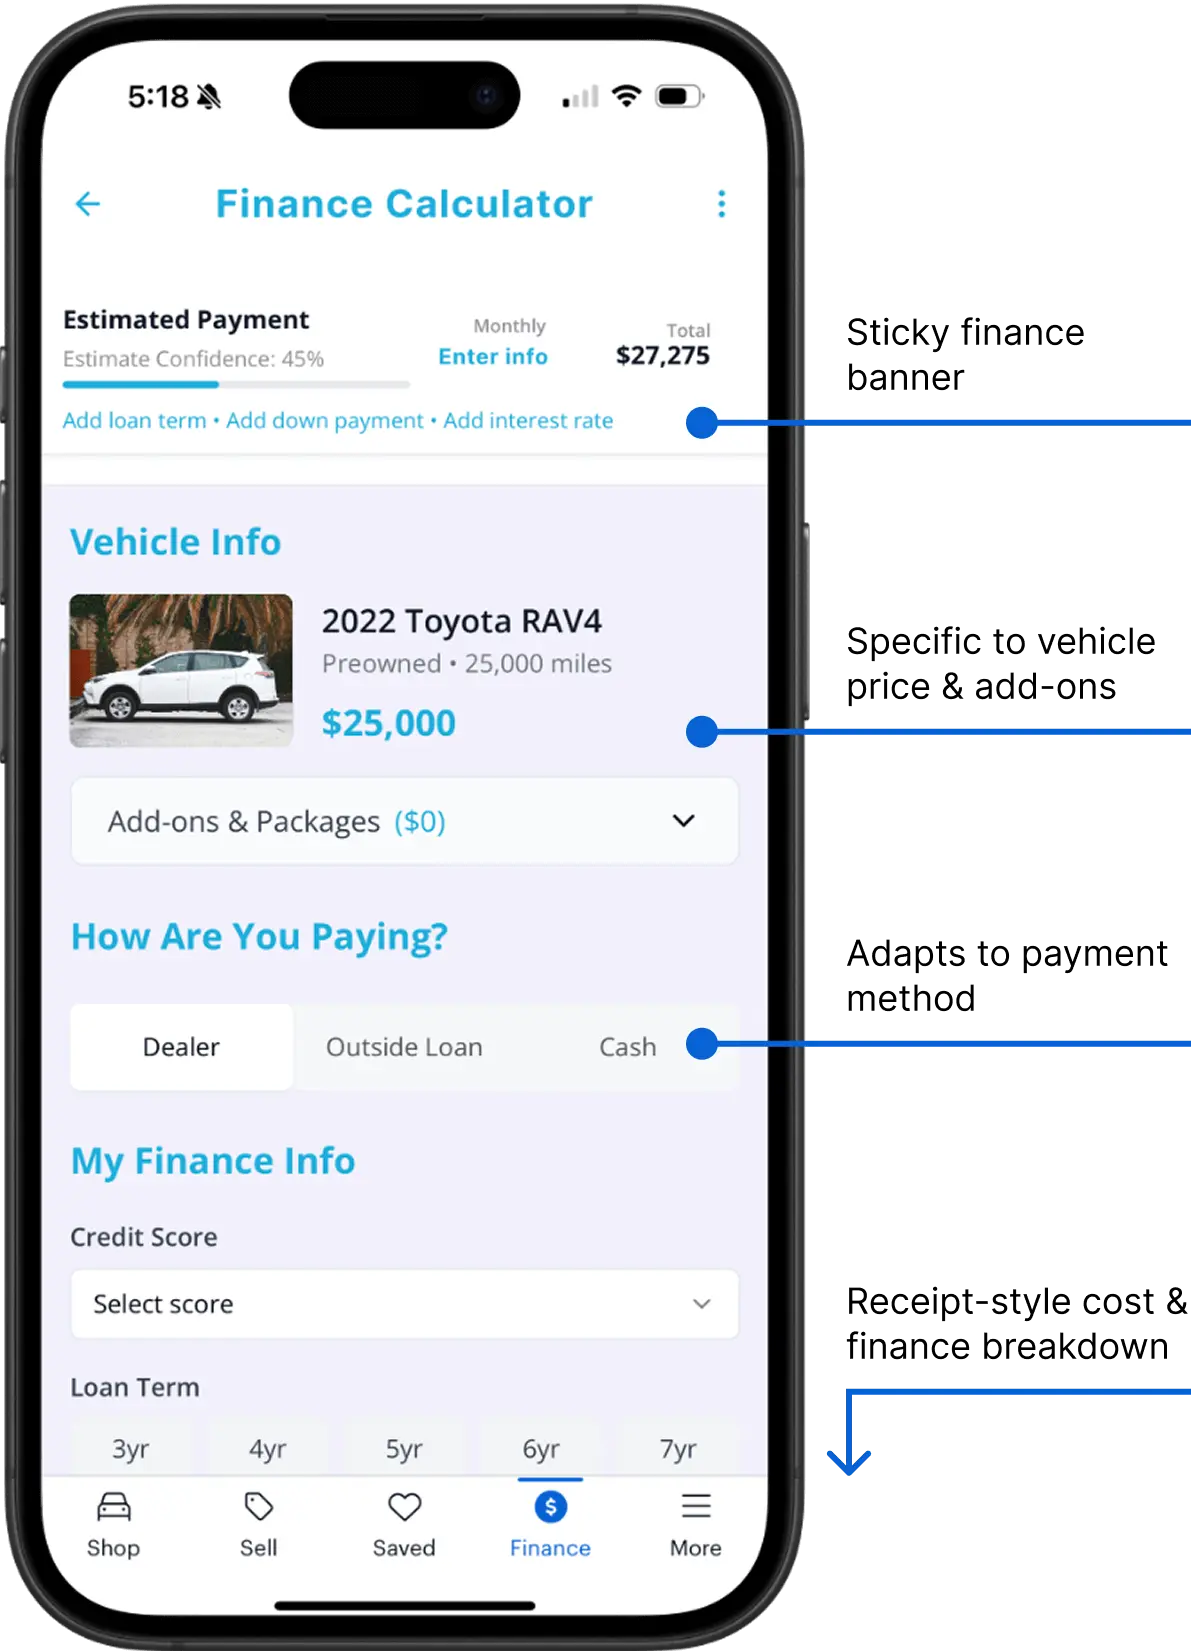
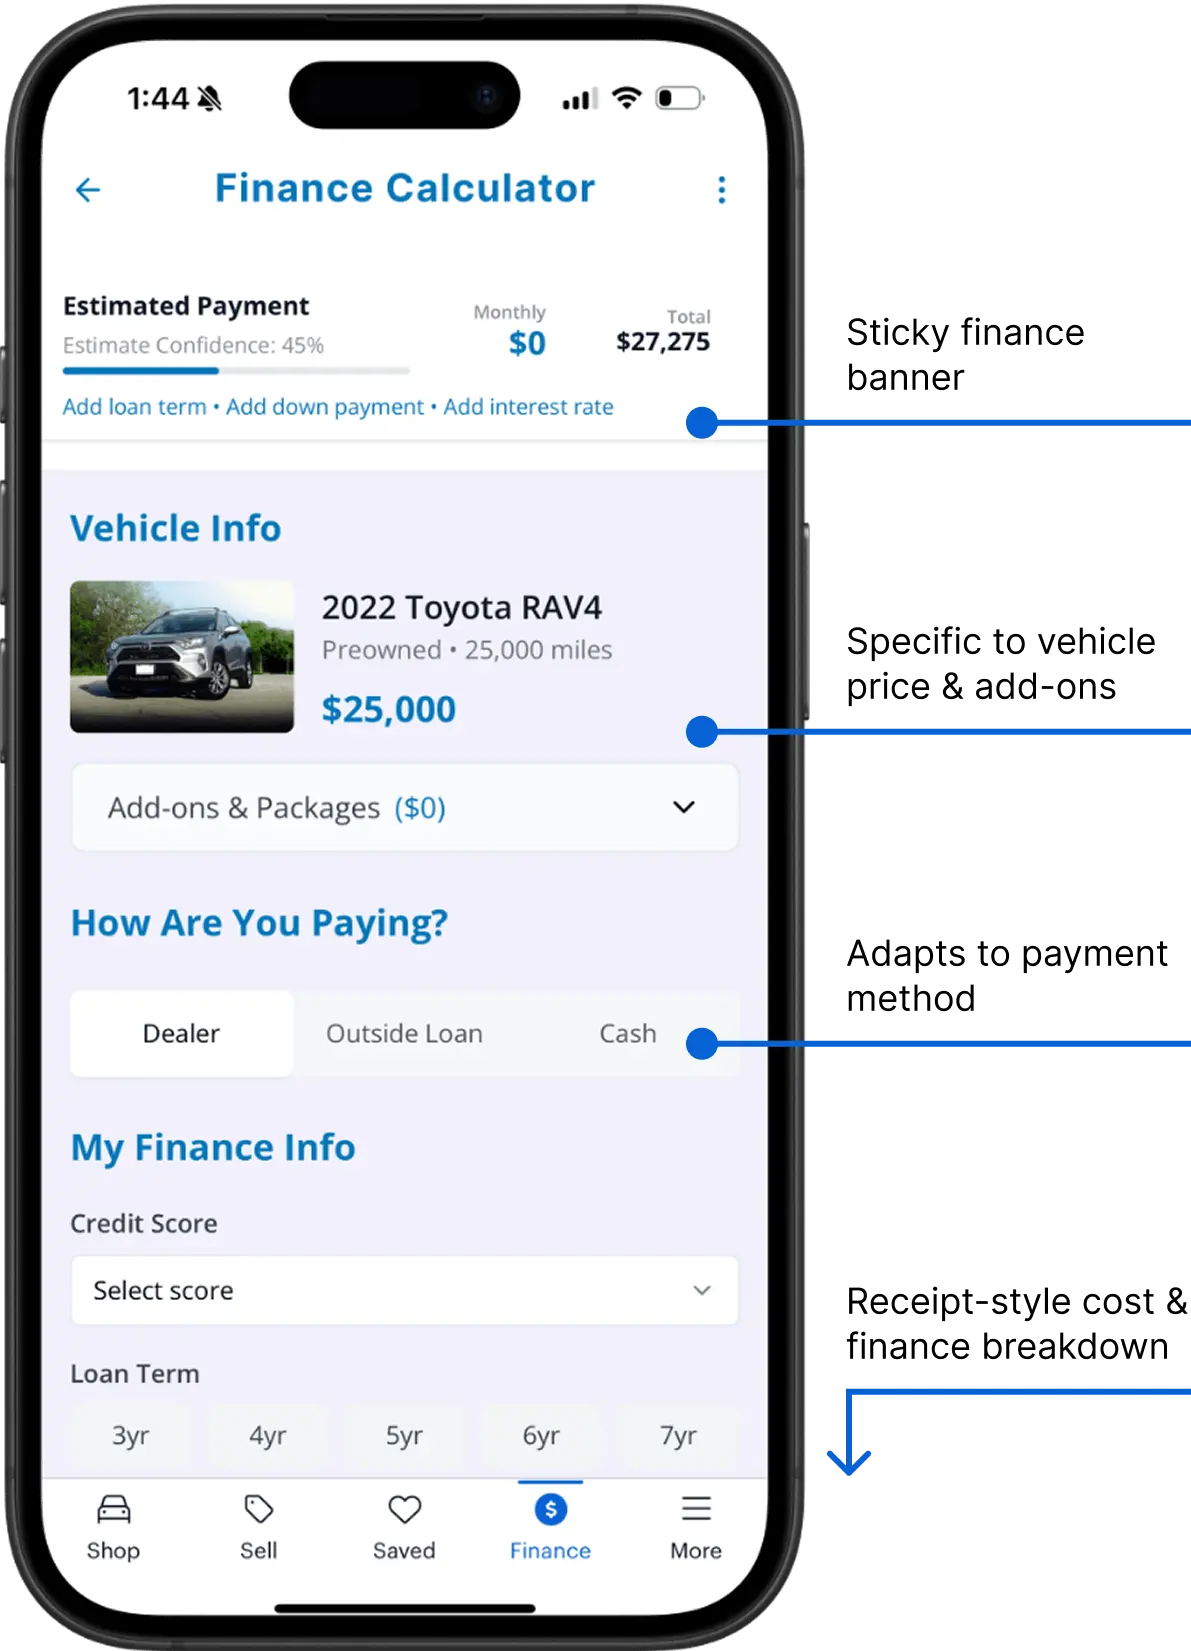
changed cg blue

diff --git a/assets/cargurus.css b/assets/cargurus.css
@@ -4,13 +4,13 @@
 
 /* CarGurus specific variables */
 :root {
-  --cargurus-primary: #00A1DD;
-  --cargurus-secondary: #00719B;
+  --cargurus-primary: #55A0CE;
+  --cargurus-secondary: #046096;
   --cargurus-text-dark: #000000;
   --cargurus-text-light: #727272;
-  --cargurus-bg-light: #63C4E8;
+  --cargurus-bg-light: #55A0CE;
   --cargurus-grey-light: rgba(0, 0, 0, 0.05);
-  --cargurus-border: #00A1DD;
+  --cargurus-border: #55A0CE;
 }
 
 /* Override JumboCode green elements with CarGurus blue */
@@ -179,32 +179,32 @@
 }
 
 .visit-site-link {
-  color: #0762D4;
+  color: #107BBC;
 }
 
 .visit-site-link:hover {
-  color: var(--cargurus-primary);
+  color: #509DCB;
 }
 
 .process-link-text {
-  color: #0762D4;
+  color: #107BBC;
 }
 
 .process-link:hover .process-link-text {
-  color: var(--cargurus-primary);
+  color: #509DCB;
 }
 
 .impact-number {
-  color: #0762D4;
+  color: #107BBC;
 }
 
 .goal-card {
-  border-color: #0762D4;
+  border-color: #107BBC;
 }
 
 .goal-number {
-  border-color: #0762D4;
-  color: #0762D4;
+  border-color: #107BBC;
+  color: #107BBC;
 }
 
 .description-card.positive {
@@ -467,7 +467,7 @@
 .research-quote {
   background: #EBEBEB;
   border-radius: 16px;
-  border: 1px solid #0762D4;
+  border: 1px solid #107BBC;
   /* Responsive padding with clamp */
   padding: clamp(16px, 4vw, 32px) clamp(24px, 6vw, 48px);
   /* left-aligned within the container */
@@ -476,7 +476,7 @@
 }
 
 .research-quote .quote-text {
-  color: #0762D4;
+  color: #107BBC;
   font-weight: 400;
   font-size: var(--type-size-heading);
   line-height: 1.5;
@@ -583,7 +583,7 @@
 }
 
 /* Accent color span for selected titles */
-.comp-accent { color: #0762D4; }
+.comp-accent { color: #107BBC; }
 
 @media (max-width: 948px) {
   .comp-row {

diff --git a/assets/style.css b/assets/style.css
@@ -530,7 +530,7 @@ img.work-logo {
 }
 
 .work-title-h3.cargurus {
-  color: #00A1DD; /* CarGurus blue */
+  color: #55A0CE; /* CarGurus blue */
 }
 
 .work-title-h3.realityai {
@@ -608,19 +608,19 @@ img.work-logo {
 }
 
 .work-preview.jumbocode:hover {
-  background: #46CDA7;
+  background: #2CAE8B;
   box-shadow: var(--shadow-medium);
 }
 
 .work-preview.cargurus {
-  border-color: #00A1DD;
-  background: #63C4E8;
+  border-color: #55A0CE;
+  background: #55A0CE;
   padding: 5.333% 5.333% 0 5.333%;
   box-sizing: border-box;
 }
 
 .work-preview.cargurus:hover {
-  background: #19AAE0;
+  background: #0F71AD;
   box-shadow: var(--shadow-medium);
 }
 
